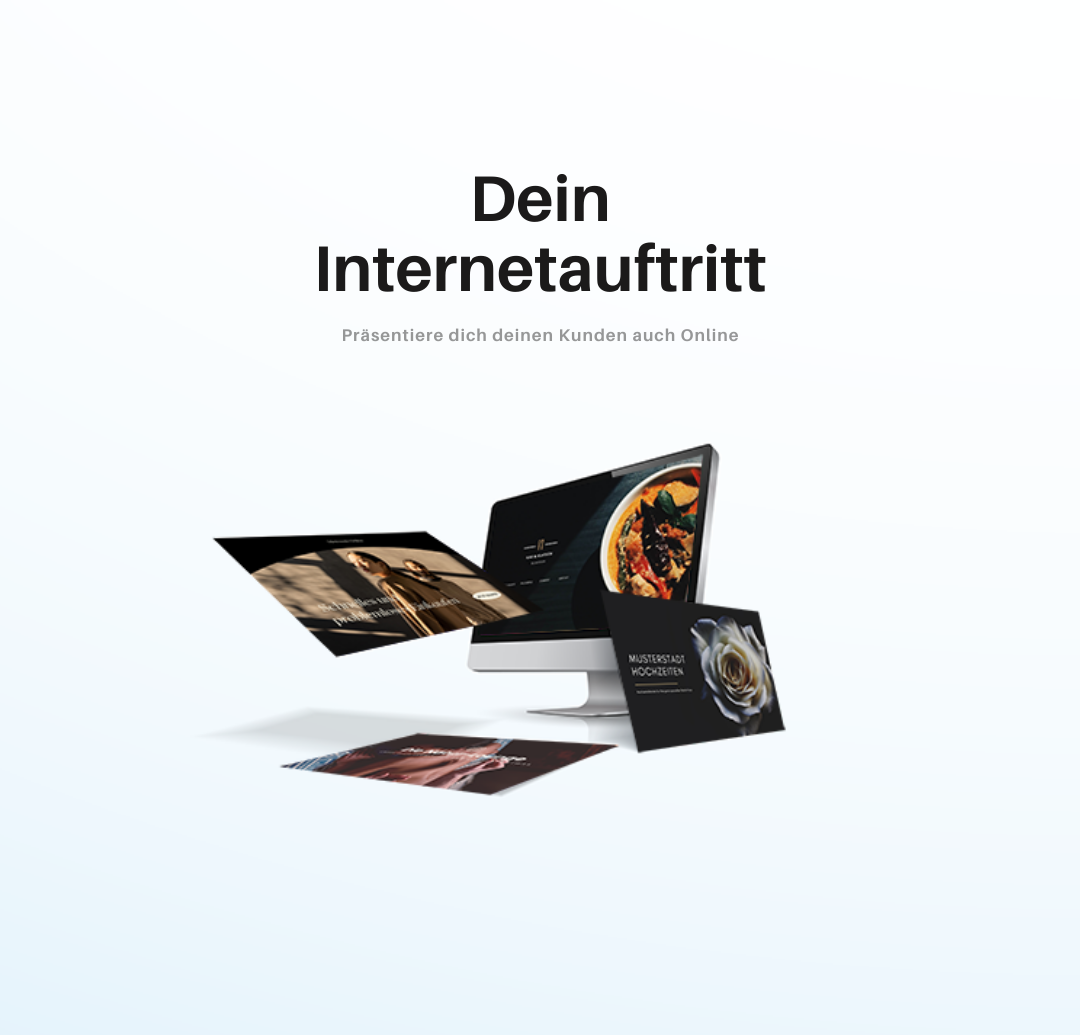
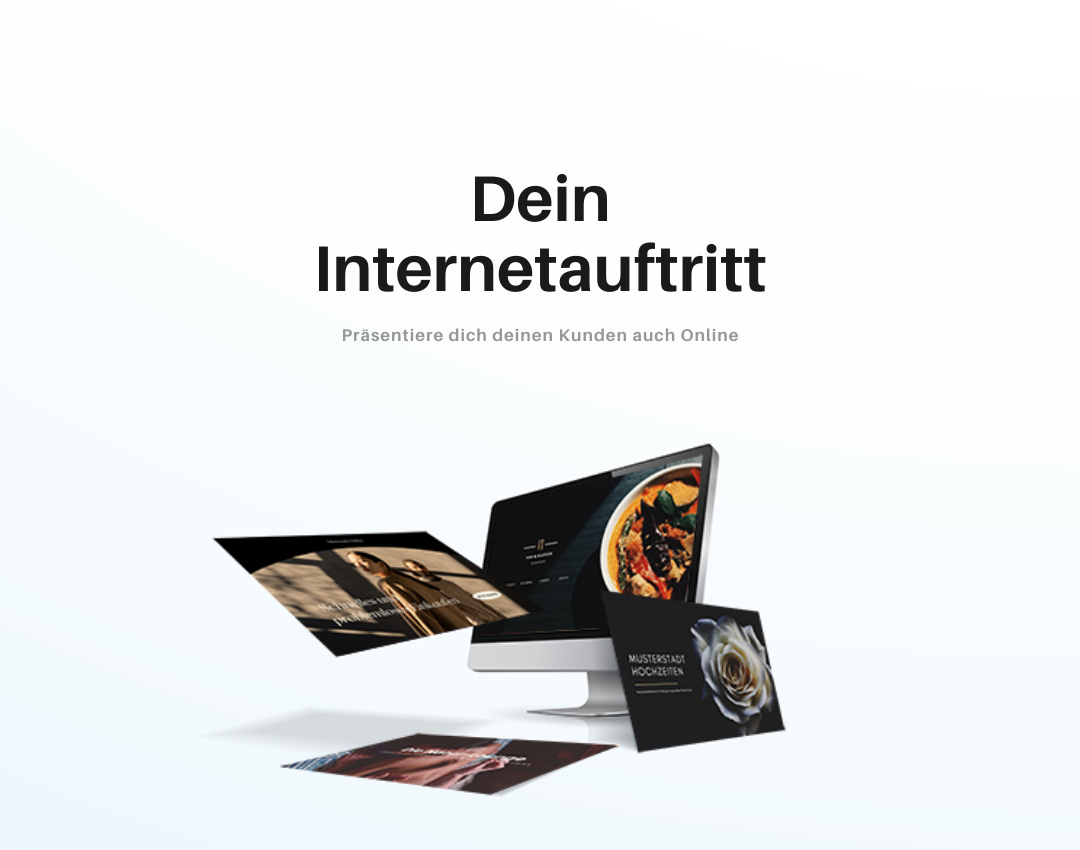
mobile

Changed region(s): [[0.1833, 0.4282, 0.7333, 0.9482], [0.275, 0.1529, 0.7028, 0.3976]]

diff --git a/src/main/resources/templates/homepage.html b/src/main/resources/templates/homepage.html
@@ -286,7 +286,7 @@
 
 <script>
     $(document).ready(function() {
-        if($(window).width() < 700 ){ $(".parallax-container").attr("data-image-src", "/bilder/backtest13.png");
+        if($(window).width() < 700 ){ $(".parallax-container").attr("data-image-src", "/bilder/backtest14.png");
         }
 
     });
